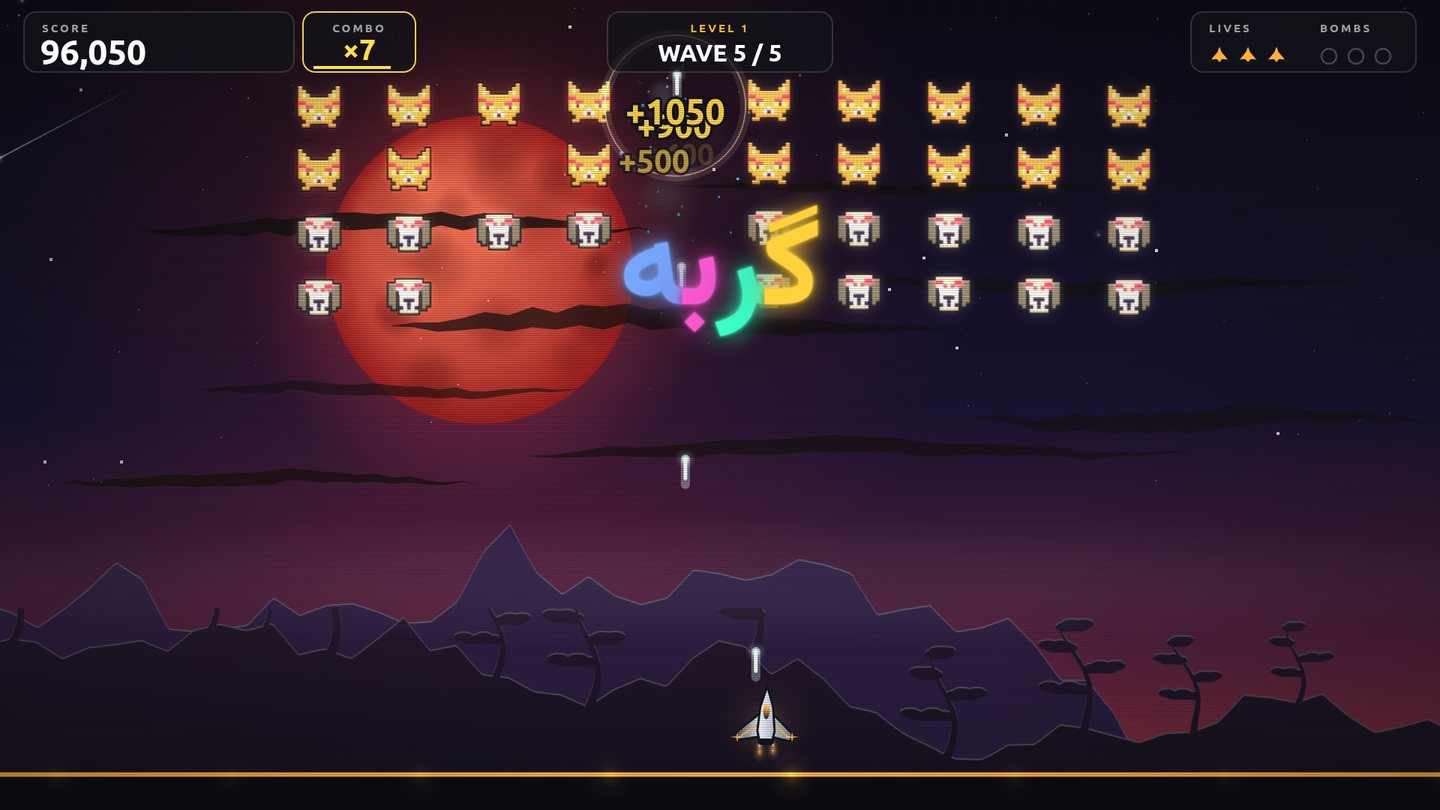
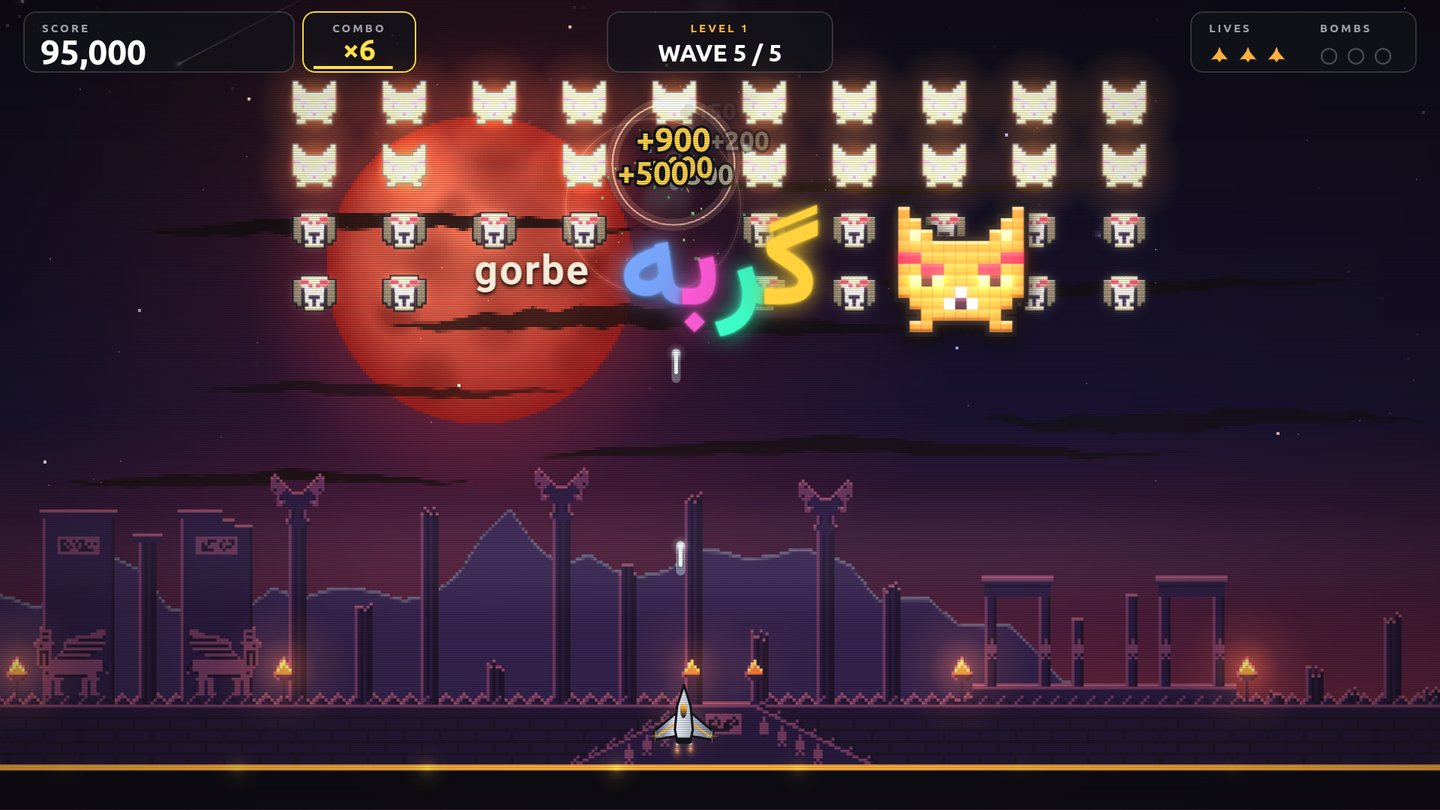
docs: re-render the Open Graph card over Persepolis
A fresh wave-5 frame carries the ruins behind the play, and the word moment
as the game now shows it: the word, its Latin spelling and the cat's face.
The card's live Latin spelling goes, since the frame has it. Alt text names
the ruins.

diff --git a/og.html b/og.html
@@ -6,10 +6,10 @@
   <!-- Source for og.png (1200 x 630). Render: serve the repo root, open og.html at a 1200 x 630
        viewport, screenshot. docs/og/hero.jpg is a real frame of wave 5, scaled from 1920 x 1080 to
        1440 x 810: open the game at ?debug&auto, press Play, and take it about 0.4 s after the cat's
-       word appears. The card crops the HUD off the top. The logo copies the title screen's .logo
-       (src/ui/css/screens.css). The word is in the frame; its Latin spelling is live text set as the
-       game sets it (src/ui/css/word.css, .word-moment .say). Render headed, not headless: only a
-       headed browser takes system-ui from the desktop, and that is the font of the tagline and bar. -->
+       word appears, so the word, its Latin spelling and the cat's face are all in the frame. The card
+       crops the HUD off the top. The logo copies the title screen's .logo (src/ui/css/screens.css).
+       Render headed, not headless: only a headed browser takes system-ui from the desktop, and that
+       is the font of the tagline and bar. -->
   <style>
     :root { --void: #05060b; --gold: #ffd24a;
       --display: "Bahnschrift", "DejaVu Sans Condensed", "Liberation Sans Narrow", "Arial Narrow", sans-serif; }
@@ -39,14 +39,6 @@
       -webkit-background-clip: text; background-clip: text; }
     .logo::after { content: ""; position: absolute; inset: 0; mix-blend-mode: multiply;
       background: repeating-linear-gradient(180deg, rgba(0, 0, 0, 0) 0 4px, rgba(0, 0, 20, 0.35) 4px 6px); }
-    /* The word's box as the game lays it out on the 1200 x 675 frame: centred at 0.34 of its height
-       (less the 60 px crop), font size 0.15 of its height, as wide as the word is. */
-    @font-face { font-family: "PackWord"; font-weight: 700; src: url("public/fonts/Vazirmatn-Bold.woff2"); }
-    .word-moment { position: absolute; left: 600px; top: 169.5px; width: 169px; height: 1.3em; translate: -50% -50%;
-      font: 700 101.25px/1.3 "PackWord", sans-serif; }
-    .word-moment .say { position: absolute; right: 100%; top: 50%; translate: 0 -50%; margin-right: 0.7em;
-      font-size: 0.34em; letter-spacing: 0.04em; color: #f4ecda;
-      text-shadow: 0 0.05em 0.1em rgba(0, 0, 0, 0.9), 0 0 0.6em rgba(0, 0, 0, 0.6); }
     .tagline { margin: 14px 0 0; font-size: 28px; line-height: 1.25; font-weight: 800;
       color: rgba(226, 248, 255, 0.95); text-shadow: 0 2px 12px #000, 0 0 2px #000; }
   </style>
@@ -54,7 +46,6 @@
 <body>
   <img class="shot" src="docs/og/hero.jpg" alt="">
   <div class="scrim"></div>
-  <div class="word-moment"><span class="say">gorbe</span></div>
   <div class="brand">
     <h1 class="logo">
       <span class="logo-glow">PERSIA</span><span class="logo-chroma c1">PERSIA</span><span class="logo-chroma c2">PERSIA</span><span class="logo-text">PERSIA</span><span class="logo-shine">PERSIA</span>

diff --git a/index.html b/index.html
@@ -19,12 +19,12 @@
   <meta property="og:description" content="Shoot down five waves of angry animals, then a giant cat. You hear each animal's name in Persian when it shows up. Free in your browser.">
   <meta property="og:image:width" content="1200">
   <meta property="og:image:height" content="630">
-  <meta property="og:image:alt" content="The PERSIA logo under a formation of angry pixel cats and dogs, a blood-red moon and a Persian word with each letter in its own colour">
+  <meta property="og:image:alt" content="The PERSIA logo under a formation of angry pixel cats and dogs, a blood-red moon over the ruins of Persepolis, and a Persian word with each letter in its own colour">
   <meta property="og:locale" content="en_US">
   <meta name="twitter:card" content="summary_large_image">
   <meta name="twitter:title" content="Persia: an arcade shooter">
   <meta name="twitter:description" content="Shoot down five waves of angry animals, then a giant cat. You hear each animal's name in Persian when it shows up. Free in your browser.">
-  <meta name="twitter:image:alt" content="The PERSIA logo under a formation of angry pixel cats and dogs, a blood-red moon and a Persian word with each letter in its own colour">
+  <meta name="twitter:image:alt" content="The PERSIA logo under a formation of angry pixel cats and dogs, a blood-red moon over the ruins of Persepolis, and a Persian word with each letter in its own colour">
   <link rel="canonical" href="https://persia.cocode.dk/">
   <meta property="og:url" content="https://persia.cocode.dk/">
   <meta property="og:image" content="https://persia.cocode.dk/og.png">

diff --git a/README.md b/README.md
@@ -2,7 +2,7 @@
 
 Persia is an arcade shooter for a laptop, played with keyboard and mouse in your browser. There is nothing to install and no account to make.
 
-[![Persia: a formation of angry pixel cats and dogs under a blood-red moon, a Persian word in four colours beside its Latin spelling, and the PERSIA logo](og.png)](https://persia.cocode.dk)
+[![Persia: a formation of angry pixel cats and dogs under a blood-red moon, the ruins of Persepolis below them, a Persian word in four colours between its Latin spelling and the cat's face, and the PERSIA logo](og.png)](https://persia.cocode.dk)
 
 ## What it is
 
